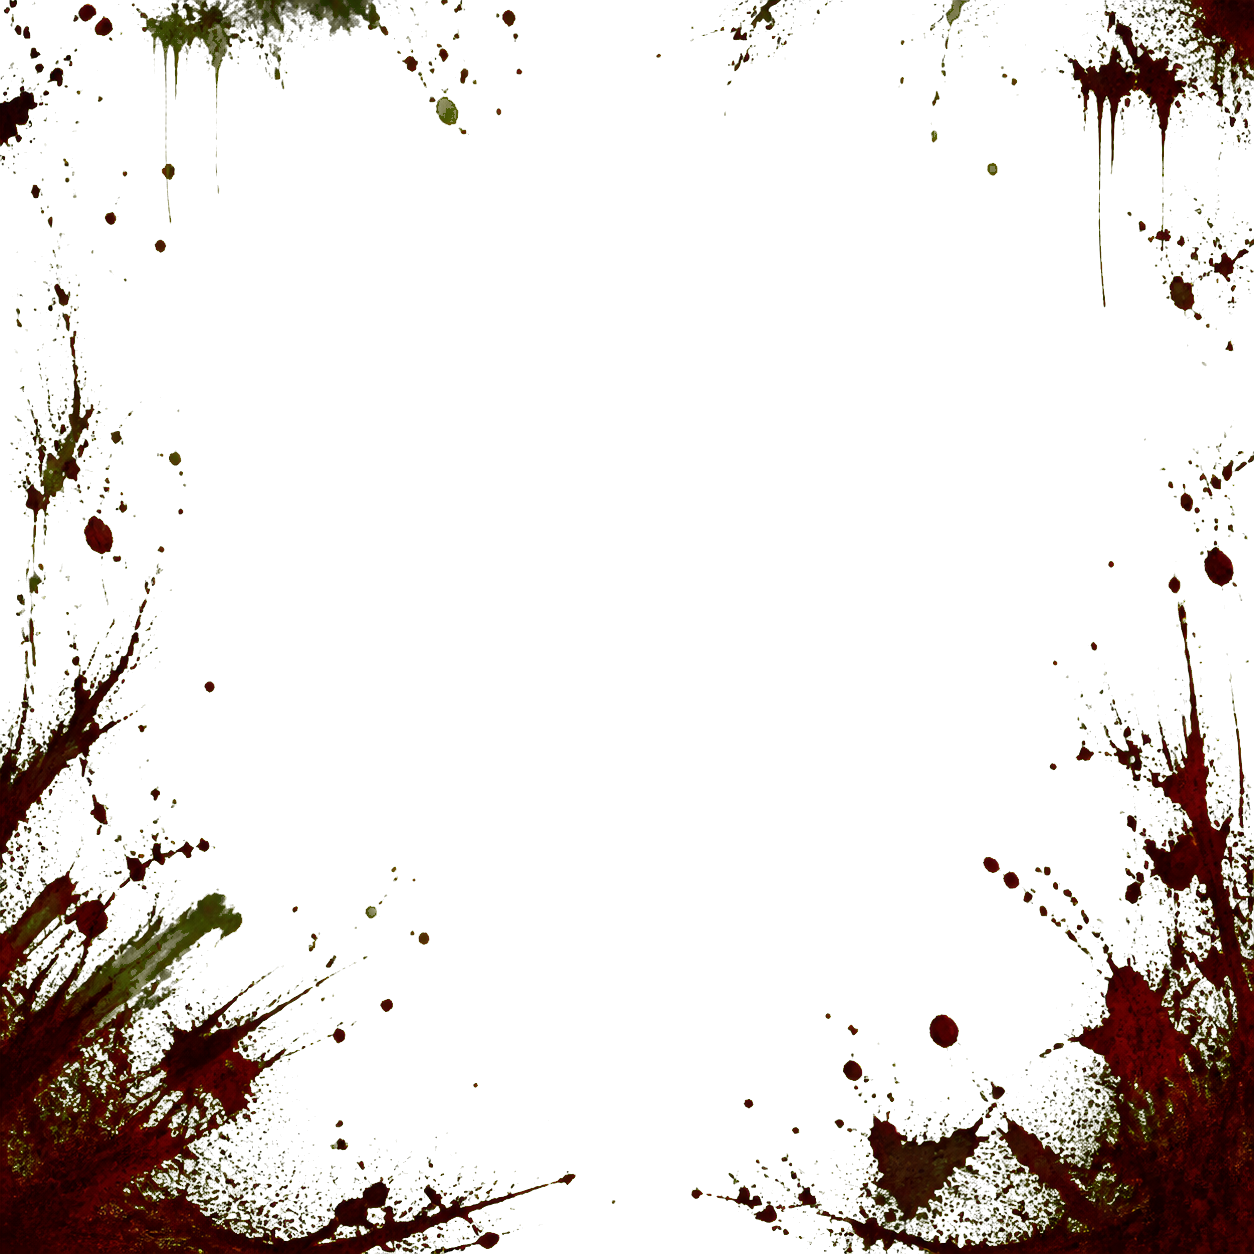
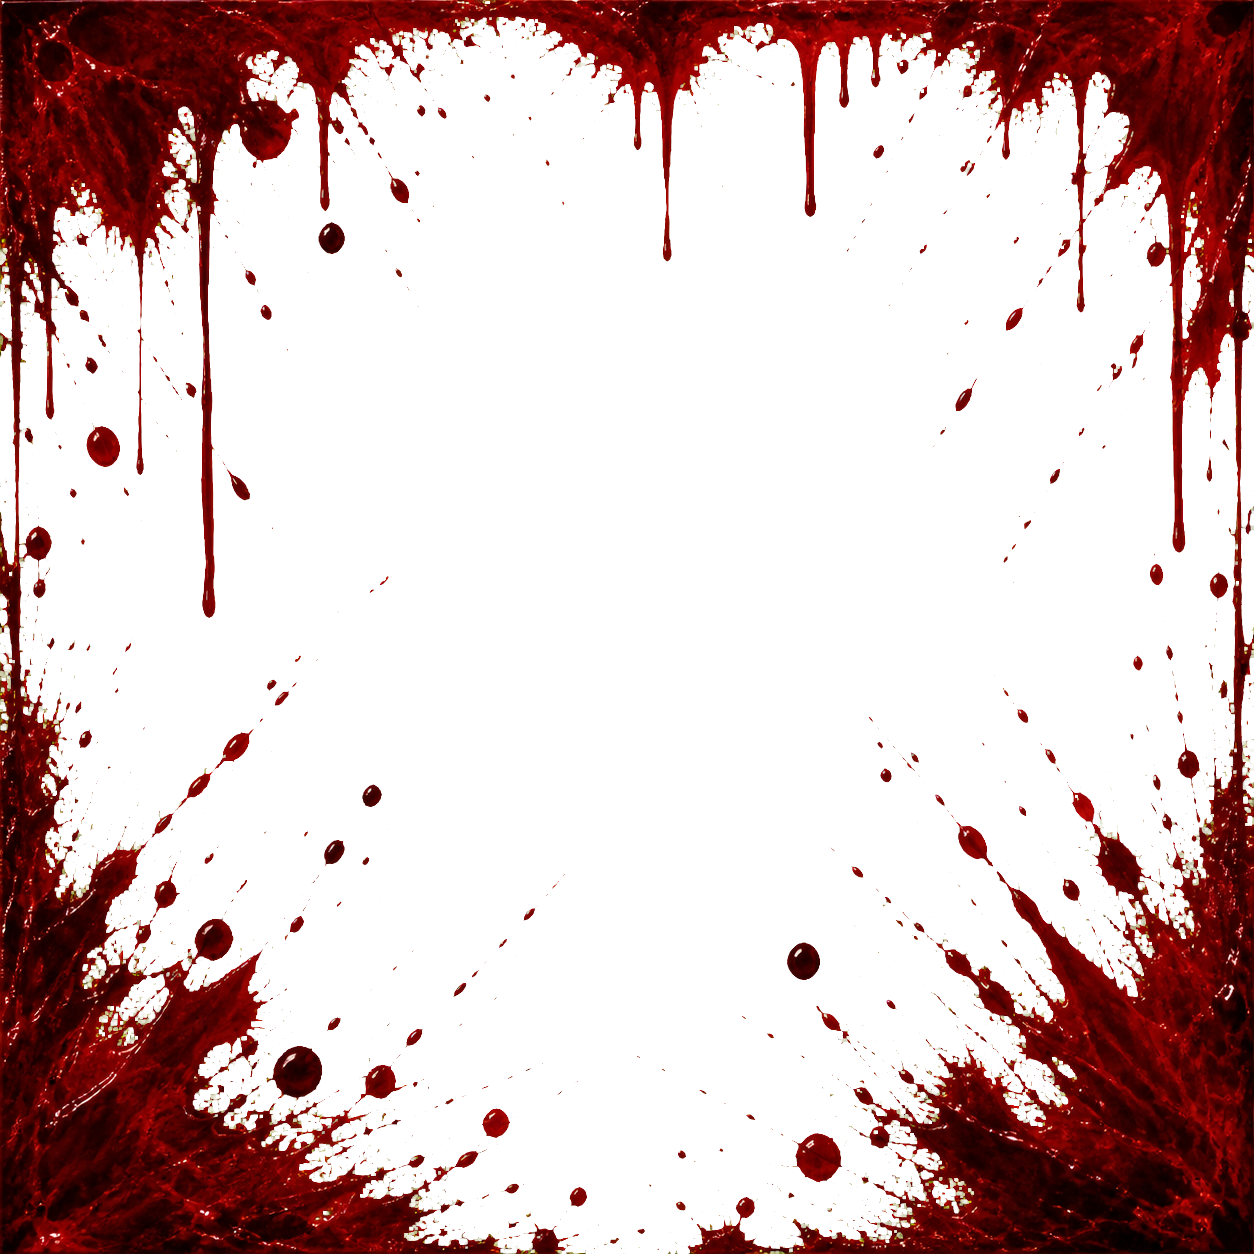
feat: reforca efeitos visuais de dano

diff --git a/styles/symbaroum-hud.css b/styles/symbaroum-hud.css
@@ -41,8 +41,7 @@
 }
 
 @media (prefers-reduced-motion: reduce) {
-  #symbaroum-hud-hostility-tint,
-  #symbaroum-hud .symbaroum-hud-card-row[data-vitality-state="critical"]::after {
+  #symbaroum-hud-hostility-tint {
     animation: none;
   }
 }
@@ -406,13 +405,19 @@
     filter 400ms ease;
 }
 
+#symbaroum-hud .symbaroum-hud-card-row[data-vitality-state="injured"] .symbaroum-hud-character-card::after {
+  opacity: 0.58;
+  filter: saturate(1.15) contrast(1.06) drop-shadow(0 0 3px rgb(125 0 0 / 70%));
+}
+
 #symbaroum-hud .symbaroum-hud-card-row[data-vitality-state="wounded"] .symbaroum-hud-character-card::after {
-  opacity: 0.38;
+  opacity: 0.8;
+  filter: saturate(1.28) contrast(1.1) drop-shadow(0 0 4px rgb(145 0 0 / 82%));
 }
 
 #symbaroum-hud .symbaroum-hud-card-row[data-vitality-state="critical"] .symbaroum-hud-character-card::after {
-  opacity: 0.76;
-  filter: saturate(1.22) contrast(1.08);
+  opacity: 1;
+  filter: saturate(1.42) contrast(1.14) drop-shadow(0 0 6px rgb(170 0 0 / 92%));
 }
 
 #symbaroum-hud .symbaroum-hud-character-card:has(.symbaroum-hud-character-open:hover),
@@ -632,32 +637,83 @@
   pointer-events: none;
 }
 
-#symbaroum-hud .symbaroum-hud-card-row::after {
+#symbaroum-hud :is(
+  .symbaroum-hud-hotbar-controls button,
+  button.symbaroum-hud-attribute,
+  .symbaroum-hud-info-entry,
+  .symbaroum-hud-economy-entry,
+  button.symbaroum-hud-experience-panel,
+  button.symbaroum-hud-panel-toggle,
+  button.symbaroum-hud-readiness-slot,
+  button.symbaroum-hud-ammo-recovery-slot,
+  #hotbar #action-bar .slot
+) {
+  position: relative;
+  overflow: hidden;
+}
+
+#symbaroum-hud :is(
+  .symbaroum-hud-hotbar-controls button,
+  button.symbaroum-hud-attribute,
+  .symbaroum-hud-info-entry,
+  .symbaroum-hud-economy-entry,
+  button.symbaroum-hud-experience-panel,
+  button.symbaroum-hud-panel-toggle,
+  button.symbaroum-hud-readiness-slot,
+  button.symbaroum-hud-ammo-recovery-slot,
+  #hotbar #action-bar .slot
+)::after {
   position: absolute;
-  inset: -5px;
-  z-index: 20;
+  inset: 0;
+  z-index: 8;
   content: "";
-  background: url("../assets/overlays/critical-cracks.png") center / 100% 100% no-repeat;
+  background: url("../assets/overlays/button-cracks.png") center / 100% 100% no-repeat;
   opacity: 0;
-  filter: drop-shadow(0 1px 1px rgb(0 0 0 / 85%));
+  filter: drop-shadow(0 1px 1px rgb(0 0 0 / 90%));
   pointer-events: none;
-  transition: opacity 400ms ease;
+  transition: opacity 350ms ease;
 }
 
-#symbaroum-hud .symbaroum-hud-card-row[data-vitality-state="critical"]::after {
-  opacity: 0.5;
-  animation: symbaroum-hud-critical-damage 2.8s ease-in-out infinite;
+#symbaroum-hud .symbaroum-hud-card-row[data-vitality-state="injured"] :is(
+  .symbaroum-hud-hotbar-controls button,
+  button.symbaroum-hud-attribute,
+  .symbaroum-hud-info-entry,
+  .symbaroum-hud-economy-entry,
+  button.symbaroum-hud-experience-panel,
+  button.symbaroum-hud-panel-toggle,
+  button.symbaroum-hud-readiness-slot,
+  button.symbaroum-hud-ammo-recovery-slot,
+  #hotbar #action-bar .slot
+)::after {
+  opacity: 0.2;
 }
 
-@keyframes symbaroum-hud-critical-damage {
-  0%,
-  100% {
-    opacity: 0.42;
-  }
+#symbaroum-hud .symbaroum-hud-card-row[data-vitality-state="wounded"] :is(
+  .symbaroum-hud-hotbar-controls button,
+  button.symbaroum-hud-attribute,
+  .symbaroum-hud-info-entry,
+  .symbaroum-hud-economy-entry,
+  button.symbaroum-hud-experience-panel,
+  button.symbaroum-hud-panel-toggle,
+  button.symbaroum-hud-readiness-slot,
+  button.symbaroum-hud-ammo-recovery-slot,
+  #hotbar #action-bar .slot
+)::after {
+  opacity: 0.43;
+}
 
-  50% {
-    opacity: 0.58;
-  }
+#symbaroum-hud .symbaroum-hud-card-row[data-vitality-state="critical"] :is(
+  .symbaroum-hud-hotbar-controls button,
+  button.symbaroum-hud-attribute,
+  .symbaroum-hud-info-entry,
+  .symbaroum-hud-economy-entry,
+  button.symbaroum-hud-experience-panel,
+  button.symbaroum-hud-panel-toggle,
+  button.symbaroum-hud-readiness-slot,
+  button.symbaroum-hud-ammo-recovery-slot,
+  #hotbar #action-bar .slot
+)::after {
+  opacity: 0.72;
 }
 
 #symbaroum-hud .symbaroum-hud-character-resource-fill {

diff --git a/README.md b/README.md
@@ -18,7 +18,7 @@ O módulo usa as rolagens e os documentos nativos do sistema. Ele não altera o 
 - seleção pelo token controlado, combatente atual ou personagem atribuído;
 - troca rápida entre atores que o usuário pode acessar;
 - barras de Vitalidade e Corrupção reveladas ao passar o mouse sobre o retrato, além de Defesa, armadura, carga, dinheiro e experiência;
-- efeitos imersivos graduais de sangue no retrato e rachaduras no HUD conforme a Vitalidade diminui;
+- efeitos imersivos graduais: qualquer dano deixa sangue evidente no retrato, enquanto rachaduras individuais surgem em cada botão e quadro do HUD;
 - rolagem dos oito atributos, armas, armadura e teste de morte;
 - recuperação, descanso, custo de nova rolagem e efeitos ativos;
 - painéis de ataques, habilidades, traços, poderes místicos e rituais;
@@ -87,7 +87,7 @@ O modo de visualização do inventário, em grade ou lista, também é lembrado 
 
 - Passe o mouse sobre o retrato para revelar o nome e as setas de troca; clique na imagem para abrir a ficha do ator.
 - Clique na barra de Vitalidade para curar o personagem ou aplicar uma quantidade de dano.
-- Ao chegar a 50% de Vitalidade, o retrato começa a apresentar sangue; com 25% ou menos, o efeito se intensifica e o HUD passa a exibir rachaduras.
+- Qualquer ponto de Vitalidade perdido já deixa sangue evidente no retrato e rachaduras discretas em cada componente; os efeitos ficam progressivamente mais fortes em 50% e 25% de Vitalidade.
 - Clique na barra de Corrupção para aumentar ou reduzir a Corrupção temporária; a permanente é preservada.
 - Ao ganhar Corrupção pelo HUD, os avisos nativos de proximidade, limiar e corrupção máxima também são enviados ao chat.
 - Clique em um atributo, arma ou ação disponível para usar a operação nativa do Symbaroum.

diff --git a/CHANGELOG.md b/CHANGELOG.md
@@ -1,5 +1,11 @@
 # Changelog
 
+## 0.1.16
+
+- Torna as manchas de sangue mais fortes, vermelhas e chamativas desde o primeiro ponto de Vitalidade perdido.
+- Substitui a rachadura única sobre todo o HUD por rachaduras individuais em cada botão e quadro.
+- Intensifica progressivamente sangue e rachaduras quando a Vitalidade chega a 50% e 25%.
+
 ## 0.1.15
 
 - Impede que o HUD tente rolar um ataque imediatamente após sacar uma arma guardada.
